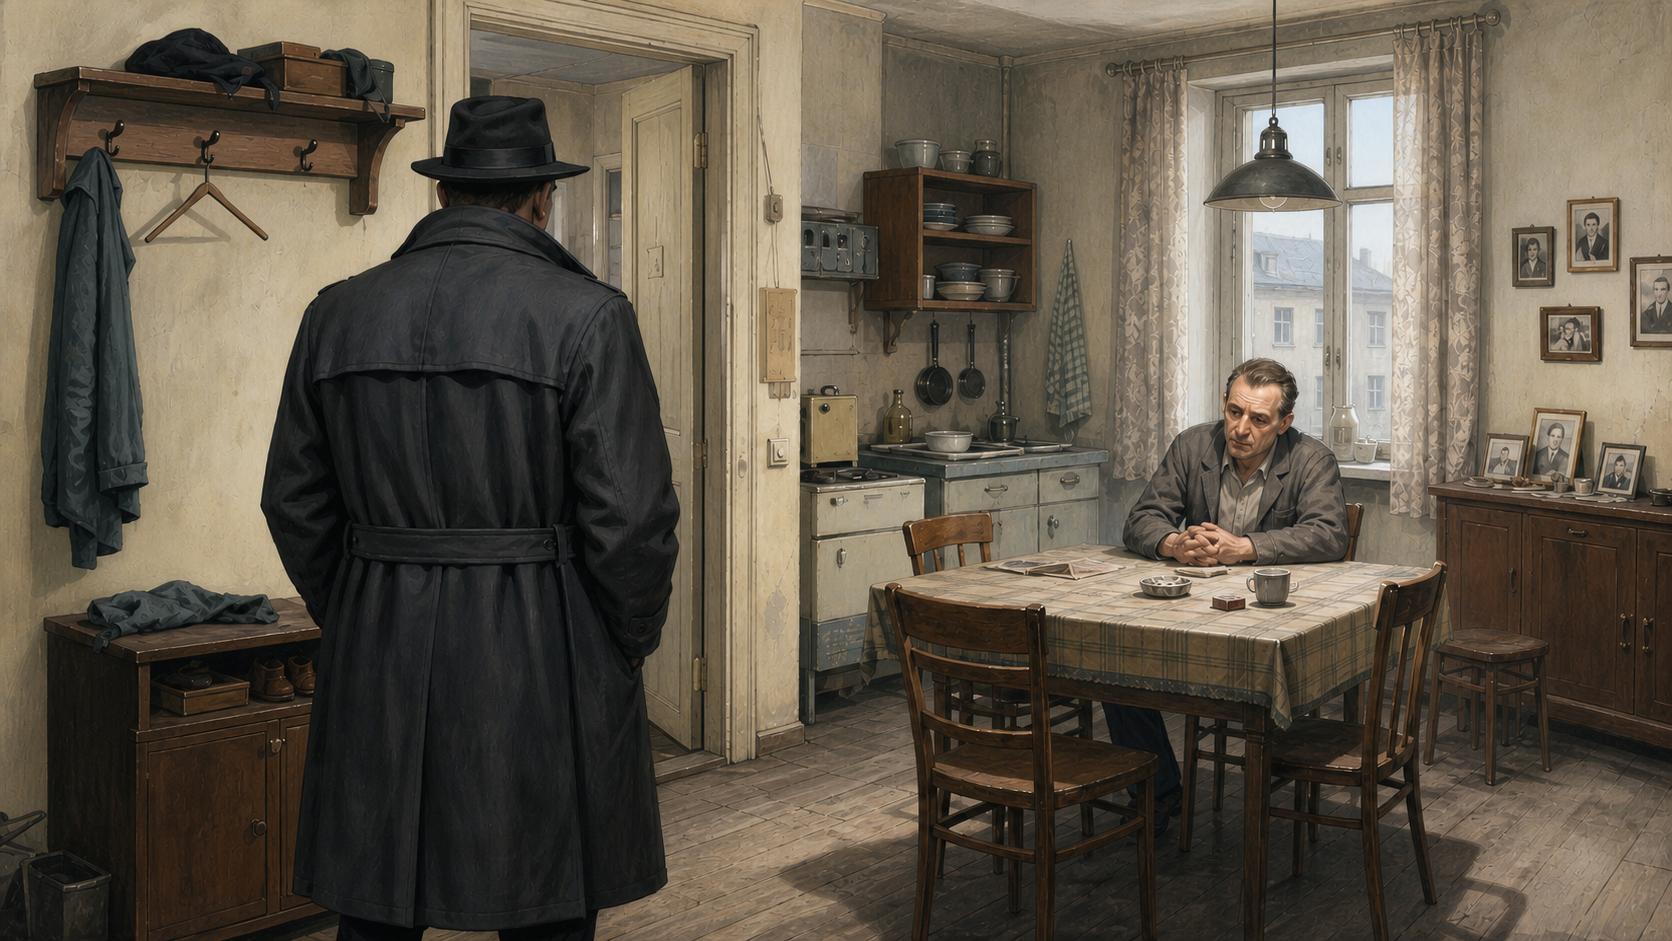
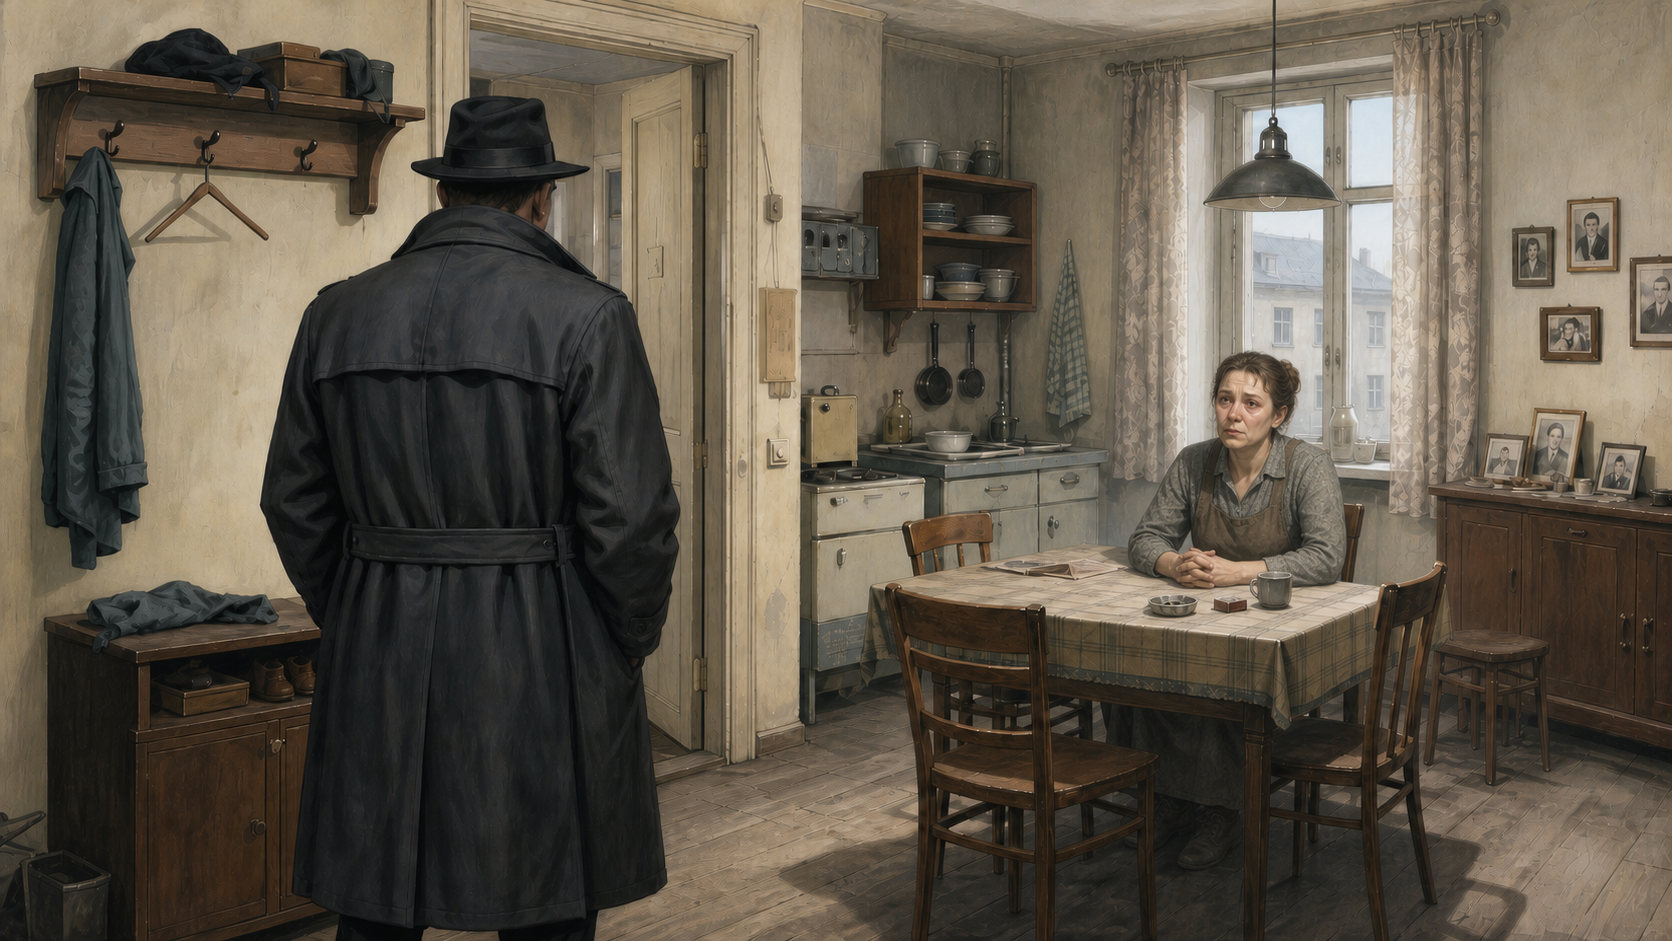
Align Wessel cast images and case threads

Changed region(s): [[0.6531, 0.3698, 0.8708, 0.678], [0.6842, 0.7396, 0.7464, 0.8321]]

diff --git a/index.html b/index.html
@@ -4263,7 +4263,7 @@
       </div>
       <div class="playmode-voicehint">Tipp fürs Hörbuch: In den Einstellungen (Zahnrad oben, „🔊 Sound-Einstellungen") kannst du die Vorlesestimme wechseln. Je nach Browser und Betriebssystem stehen unterschiedliche Stimmen bereit. In Google Chrome unter Windows gibt es z.B. die Stimme „Google Deutsch", die sehr natürlich klingt. Probier aus, welche dir am besten gefällt.</div>
     </div>
-    <div class="start-version">Schatten v7.12.1213</div>
+    <div class="start-version">Schatten v7.12.1214</div>
   </div>
 
   <!-- v7.11.67: Anleitungs-Seite "So funktioniert's" -->
@@ -4505,7 +4505,7 @@
 
   <!-- Footer -->
   <div id="footer" class="footer hidden">
-    <span>Schatten v7.12.1213</span>
+    <span>Schatten v7.12.1214</span>
     <span id="footer-model" style="opacity:0.7;"></span>
   </div>
 
@@ -7675,7 +7675,9 @@ KONTINUITAET (Kessler-Fall, Pflicht): Robert Kessler ist ab Szene 1 etabliert. I
         { name: 'Bruno Wessel', id: 'bruno_wessel', tag: 'CLIENT', alter: 48, rolle: 'Klient (Bauarbeiter, Vater)',
           beziehung: 'Vater des verschwundenen Werner, beauftragt Karl heimlich',
           detail: 'Bauarbeiter an der Stalinallee, kraeftig, Haende wie Schaufeln, raucht filterlose Carré, Augen rot vom Weinen, legt 800 Mark Erspartes auf den Tisch. Verheiratet, hat ausser Werner noch eine Tochter Christel (16).',
-          persistent: true, anwesend: true },
+          // Bruno erteilt den Auftrag im Buero, ist danach aber auf der Baustelle.
+          // Die Wessel-Wohnung ist Herthas Gespraechsort, nicht Brunos Dauerstandort.
+          homePresence: false, persistent: true, anwesend: true },
         { name: 'Werner Wessel', id: 'werner_wessel', tag: 'TARGET', alter: 22, rolle: 'Vermisster (Sohn)',
           beziehung: 'Brunos Sohn, gestern beim 17.-Juni-Aufstand verschwunden',
           detail: 'Lehrling bei der Reichsbahn, blond, schlank, war gestern in der Demonstration in der Friedrichstrasse, hat einen Pflasterstein auf einen Sowjetpanzer geworfen. Status: verhaftet (vermutlich Hohenschoenhausen) oder tot oder in den Westen gefluechtet.',
@@ -13182,7 +13184,7 @@ function _schlafAufwachZiel(idx) {
 
 let conversationHistory = []; // v7.12.120: umbenannt (war 'history' - kollidierte mit window.history)
 // Globale Version, von exportTranscript() und Debug-Dumps verwendet
-window.SCHATTEN_VERSION = 'v7.12.1213 +Trinken-Direktpfad';
+window.SCHATTEN_VERSION = 'v7.12.1214 +Falltreue-Bilder';
 // v7.12.163 (Sicherheit): Deploy-UI-Schalter. false = Deploy-Button versteckt + Funktion
 // gesperrt. Der /api/deploy-Endpoint ist zusaetzlich serverseitig per DEPLOY_ENABLED-Env
 // gesperrt (Kill-Switch). Zum Reaktivieren beides setzen.
@@ -44833,6 +44835,7 @@ async function performApiCall(userMsg, isStart, optionForRollback, retryCount, r
       let klientNameLower = '';
       let klientFirstName = '';
       let klientLastName = '';
+      let klientIstAmWohnort = true;
       try {
         if (caseSetup && Array.isArray(caseSetup.setupCast)) {
           const klientEntry = caseSetup.setupCast.find(c => c && c.tag === 'CLIENT');
@@ -44840,6 +44843,7 @@ async function performApiCall(userMsg, isStart, optionForRollback, retryCount, r
             klientNameLower = normForMatch(klientEntry.name);
             klientFirstName = klientNameLower.split(' ')[0];
             klientLastName = klientNameLower.split(' ').slice(-1)[0];
+            klientIstAmWohnort = klientEntry.homePresence !== false;
           }
         }
       } catch (e) { /* ignore */ }
@@ -44859,7 +44863,7 @@ async function performApiCall(userMsg, isStart, optionForRollback, retryCount, r
 
       // Pruefe ob aktueller Ort die Klient-Wohnung ist
       const ortLowerForCast = normForMatch((scene && scene.ort) || '');
-      const ortIsKlientHome = klientLastName && (
+      const ortIsKlientHome = klientIstAmWohnort && klientLastName && (
         ortLowerForCast.includes(klientLastName) ||
         ortLowerForCast.includes(klientFirstName + '-wohnung') ||
         ortLowerForCast.includes(klientLastName + '-wohnung')
@@ -56649,6 +56653,14 @@ function _istKesslerFallFuerBild() {
   return !!_aktuellerSzenenbildSatz();
 }
 
+function _istKesslerFall() {
+  try {
+    if (!caseSetup) return false;
+    const fallText = String(caseSetup.klient || '') + ' ' + String(caseSetup.opfer || '') + ' ' + String(caseSetup.tat || '');
+    return /edith kessler|robert kessler/i.test(fallText);
+  } catch (e) { return false; }
+}
+
 function _kesslerBildIstInnenraum(locationName) {
   try {
     const normalized = _kesslerSceneNorm(locationName);
@@ -57943,7 +57955,7 @@ function _indizDurchVerhoerNichtMehrOffen(ind) {
 
 function _hauptuiKesslerRobertAussageOffen() {
   try {
-    if (typeof _istKesslerFallFuerBild !== 'function' || !_istKesslerFallFuerBild() || !caseProgress) return false;
+    if (typeof _istKesslerFall !== 'function' || !_istKesslerFall() || !caseProgress) return false;
     const gefunden = Array.isArray(caseProgress.gefundeneIndizIds) ? caseProgress.gefundeneIndizIds : [];
     const hat = function (id) { return gefunden.indexOf(id) !== -1; };
     if (hat('robert_aussage')) return false;
@@ -58004,7 +58016,7 @@ function _hauptuiKesslerRobertAbpassen() {
 
 function _hauptuiKesslerFaeden() {
   try {
-    if (typeof _istKesslerFallFuerBild !== 'function' || !_istKesslerFallFuerBild() || !caseProgress) return [];
+    if (typeof _istKesslerFall !== 'function' || !_istKesslerFall() || !caseProgress) return [];
     const gefunden = Array.isArray(caseProgress.gefundeneIndizIds) ? caseProgress.gefundeneIndizIds : [];
     const hat = function (id) { return gefunden.indexOf(id) !== -1; };
     const hatEines = function (ids) { return ids.some(hat); };
@@ -58075,7 +58087,7 @@ function _hauptuiKesslerFaeden() {
 
 function _hauptuiKesslerZielBrauchtBeleg(target) {
   try {
-    if (!target || typeof _istKesslerFallFuerBild !== 'function' || !_istKesslerFallFuerBild() || !caseProgress) return null;
+    if (!target || typeof _istKesslerFall !== 'function' || !_istKesslerFall() || !caseProgress) return null;
     const id = normForMatch(target.id || target.name || '');
     if (id !== 'edith_kessler' && id !== 'edith kessler') return null;
     const gefunden = Array.isArray(caseProgress.gefundeneIndizIds) ? caseProgress.gefundeneIndizIds : [];

diff --git a/tests/hauptui-smoke.test.js b/tests/hauptui-smoke.test.js
@@ -255,9 +255,14 @@ assert(acquiredFundItem && acquiredFundItem.key === 'west_zigaretten', 'Haupt-UI
 assert.strictEqual(acquiredFundItem.preis, 2, 'Haupt-UI direct pickup must keep the cafe price for West cigarettes');
 context._ortsFundItems = () => [];
 
+context.caseSetup = { klient: 'Edith Kessler', opfer: 'Robert Kessler', tat: 'Beschattung' };
 context._istKesslerFallFuerBild = () => true;
+context._istKesslerFall = () => /edith kessler|robert kessler/i.test(String(context.caseSetup.klient || '') + ' ' + String(context.caseSetup.opfer || ''));
 let faeden = context._hauptuiKesslerFaeden();
 assert.deepStrictEqual(Array.from(faeden, (f) => f.id), ['robert_weg', 'wohnung'], 'Kessler must begin with two concrete courtyard questions');
+context.caseSetup = { klient: 'Bruno Wessel', opfer: 'Werner Wessel', tat: 'Vermisstenfall' };
+assert.deepStrictEqual(Array.from(context._hauptuiKesslerFaeden()), [], 'Wessel must never inherit Kessler investigation threads merely because it has a scene image set');
+context.caseSetup = { klient: 'Edith Kessler', opfer: 'Robert Kessler', tat: 'Beschattung' };
 context.caseProgress.gefundeneIndizIds = ['robert_eintritt_beobachtet', 'tuerschild_hauke', 'ilse_aussage'];
 context.caseProgress.verhoere = {};
 context.caseProgress.verhoerFehlschlaege = [];
@@ -618,6 +623,7 @@ assert.strictEqual(groupedInventory[0].anzahl, 2, 'grouped inventory target must
 assert.deepStrictEqual(Array.from(groupedInventory[0].itemIds), ['korn_1', 'korn_2'], 'grouped inventory target must retain all real item ids');
 assert(html.includes("target.name + (target.anzahl > 1 ? ' ×' + target.anzahl : '')"), 'inventory target label must show the grouped quantity');
 assert(html.includes('function _hauptuiAngreifbarePersonen()'), 'items must be usable against an engine-marked suspect or target, not only generic enemies');
+assert(html.includes('klientIstAmWohnort = klientEntry.homePresence !== false;'), 'clients explicitly absent from their family home must leave the cast after travel');
 assert(html.includes("add('uebergeben_vp', 'Der Polizei übergeben')"), 'secured hostile or corrupt actors need a police handover action');
 assert(html.includes("if (!z || z.status !== 'gefesselt') add('fesseln', 'Fessle');\n    if (feind && z"), 'secured opponents must move from restraint directly to useful follow-up actions');
 assert(html.includes('UEBERMUEDUNGS-FAHRTABBRUCH'), 'hard fatigue must stop unsafe driving in engine state');

diff --git a/tests/konfrontation-ui.test.js b/tests/konfrontation-ui.test.js
@@ -4,7 +4,7 @@ const path = require('path');
 
 const html = fs.readFileSync(path.join(__dirname, '..', 'index.html'), 'utf8');
 
-assert(html.includes('Schatten v7.12.1213'), 'version badge should be bumped');
+assert(html.includes('Schatten v7.12.1214'), 'version badge should be bumped');
 assert(html.includes('KONFRONTATION_TAG_TOOLTIPS'), 'missing confrontation tooltip registry');
 assert(html.includes('function _konfrontationWuerfleAusgang'), 'missing randomized confrontation outcome helper');
 assert(html.includes("const alkoholMalus = Math.min(3, Math.max(0, Number(caseProgress && caseProgress.alkohol) || 0));"), 'alcohol must reduce confrontation reliability');